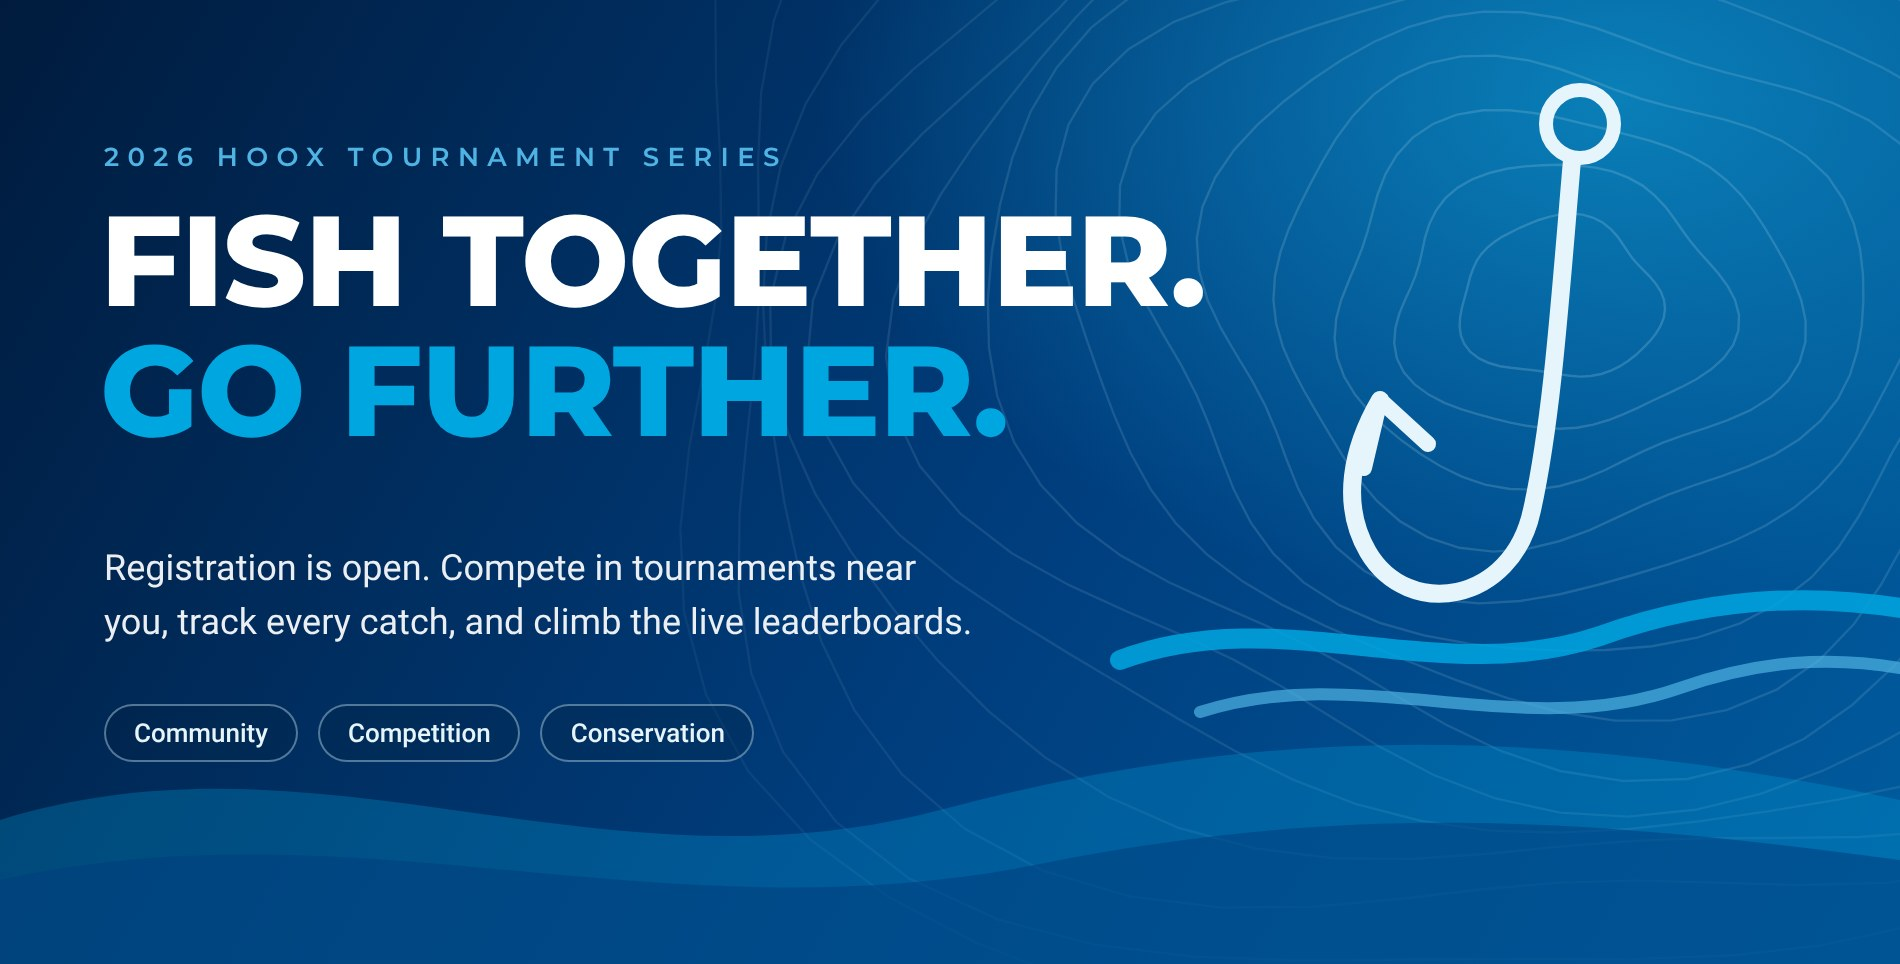
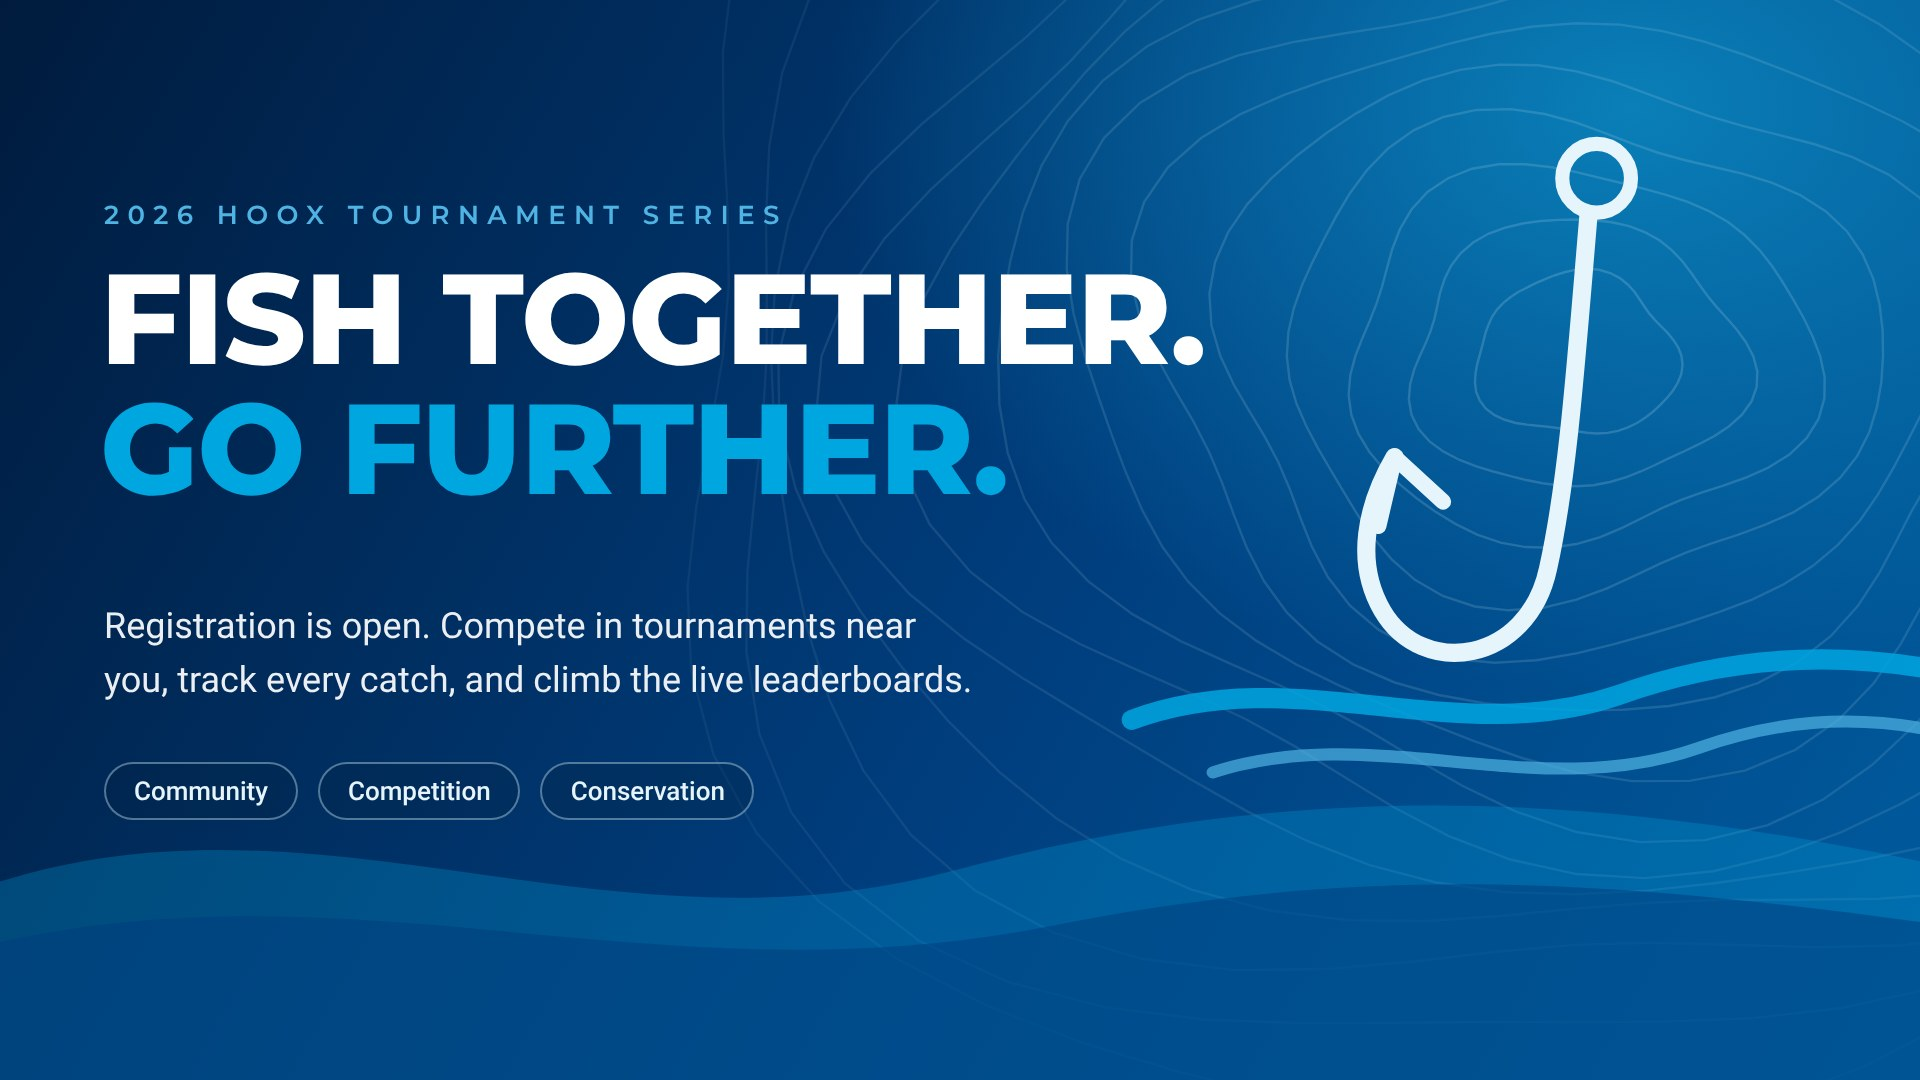
Restore Live Now / home changes lost in 7fbec34; re-apply 16:9 hero
Commit 7fbec34 accidentally committed stale copies of HomePage.tsx and
HeroCarousel.tsx, rolling back the Live Now card edits, the Leaderboards
section order, "View all tournaments", the Register buttons and the
Google map. This restores HomePage/HeroCarousel from 761dad6 and
re-applies the responsive 16:9 hero work on top:

- Hero always 16:9, image object-cover centred, no blurred bands
- >= 1280px: hero + Live Now side by side, map flexes so heights match
- 768-1279px: Live Now below the hero, details left / map right
- < 768px: stacked
- HOOX Series example slide re-exported at 1920x1080
- Admin hero editor recommends 1920x1080 (16:9)

Claude-Session: https://claude.ai/code/session_01TeZCeep714KrQBXP31fbxB

diff --git a/src/components/pages/HomePage.tsx b/src/components/pages/HomePage.tsx
@@ -1,7 +1,7 @@
 'use client';
 
 import {
-  Trophy, MapPin, CalendarDays, Users, ChevronRight, ArrowRight, ShieldCheck, Mountain, Waves,
+  Trophy, MapPin, Users, ChevronRight, ArrowRight, ShieldCheck, Mountain, Waves, Navigation,
 } from 'lucide-react';
 import { useEffect, useState } from 'react';
 import { Tournament, Submission, User, SearchParams, HeroSlide, HomeBanner } from '@/types';
@@ -9,6 +9,7 @@ import { getActiveHeroSlides, dbHeroSlideToApp, getActiveHomeBanners, dbHomeBann
 import RecommendedSection from '@/components/home/RecommendedSection';
 import HeroCarousel from '@/components/home/HeroCarousel';
 import LeaderboardSection from '@/components/home/LeaderboardSection';
+import { mapsSearchUrl, mapsDirectionsUrl, mapsEmbedUrl } from '@/lib/eventDetail';
 
 interface HomePageProps {
   tournaments: Tournament[];
@@ -46,7 +47,9 @@ interface LiveTournament {
   day: string;
   elapsed: string;
   lastUpdate: string;
-  map: string;
+  /** Google Maps query (same map/links as the event page's Event Location card) */
+  mapQuery: string;
+  address?: string;
 }
 
 const DEMO_LIVE: LiveTournament = {
@@ -57,7 +60,8 @@ const DEMO_LIVE: LiveTournament = {
   day: 'Day 1 of 3',
   elapsed: '5h 42m',
   lastUpdate: '10:42 AM',
-  map: '/home/live-map.jpg',
+  mapQuery: 'Lake Hartwell, Hartwell, GA 30643',
+  address: 'Hartwell, GA 30643',
 };
 
 interface UpcomingCard {
@@ -68,6 +72,8 @@ interface UpcomingCard {
   anglers?: number | string;
   prizePool?: string;
   image: string;
+  /** Show the Register button only while registration is open */
+  registrationOpen: boolean;
 }
 
 const CARD_IMAGES = [
@@ -80,12 +86,12 @@ const CARD_IMAGES = [
 ];
 
 const DEMO_UPCOMING: UpcomingCard[] = [
-  { id: 'd1', name: 'Coastal Open', dates: 'JUN 7 – 8, 2025', location: 'Charleston, SC', anglers: 200, prizePool: '$100,000', image: CARD_IMAGES[0] },
-  { id: 'd2', name: 'Pine Creek Challenge', dates: 'JUN 21 – 22, 2025', location: 'Toledo Bend, TX', anglers: 180, prizePool: '$75,000', image: CARD_IMAGES[1] },
-  { id: 'd3', name: 'Summer Slam', dates: 'JUL 12 – 13, 2025', location: 'Lake Okeechobee, FL', anglers: 220, prizePool: '$125,000', image: CARD_IMAGES[2] },
-  { id: 'd4', name: 'Mountain Lake Invitational', dates: 'AUG 9 – 10, 2025', location: 'Lake Guntersville, AL', anglers: 160, prizePool: '$80,000', image: CARD_IMAGES[3] },
-  { id: 'd5', name: 'Bayou Bash', dates: 'SEP 6 – 7, 2025', location: 'Toledo Bend, LA', anglers: 175, prizePool: '$70,000', image: CARD_IMAGES[4] },
-  { id: 'd6', name: 'Fall Classic', dates: 'OCT 18 – 19, 2025', location: 'Lake Murray, SC', anglers: 190, prizePool: '$90,000', image: CARD_IMAGES[5] },
+  { id: 'd1', name: 'Coastal Open', dates: 'JUN 7 – 8, 2025', location: 'Charleston, SC', anglers: 200, prizePool: '$100,000', image: CARD_IMAGES[0], registrationOpen: true },
+  { id: 'd2', name: 'Pine Creek Challenge', dates: 'JUN 21 – 22, 2025', location: 'Toledo Bend, TX', anglers: 180, prizePool: '$75,000', image: CARD_IMAGES[1], registrationOpen: false },
+  { id: 'd3', name: 'Summer Slam', dates: 'JUL 12 – 13, 2025', location: 'Lake Okeechobee, FL', anglers: 220, prizePool: '$125,000', image: CARD_IMAGES[2], registrationOpen: true },
+  { id: 'd4', name: 'Mountain Lake Invitational', dates: 'AUG 9 – 10, 2025', location: 'Lake Guntersville, AL', anglers: 160, prizePool: '$80,000', image: CARD_IMAGES[3], registrationOpen: true },
+  { id: 'd5', name: 'Bayou Bash', dates: 'SEP 6 – 7, 2025', location: 'Toledo Bend, LA', anglers: 175, prizePool: '$70,000', image: CARD_IMAGES[4], registrationOpen: true },
+  { id: 'd6', name: 'Fall Classic', dates: 'OCT 18 – 19, 2025', location: 'Lake Murray, SC', anglers: 190, prizePool: '$90,000', image: CARD_IMAGES[5], registrationOpen: true },
 ];
 
 /* ------------------------------ helpers ------------------------------ */
@@ -131,6 +137,9 @@ function toUpcomingCards(tournaments: Tournament[]): UpcomingCard[] {
     location: place(t),
     anglers: t.maxParticipants || undefined,
     image: t.image || CARD_IMAGES[i % CARD_IMAGES.length],
+    // Same rule as the event page: open until the event ends, unless marked completed.
+    // (Upcoming cards only list events that haven't started yet.)
+    registrationOpen: t.status !== 'completed',
   }));
 }
 
@@ -158,7 +167,8 @@ function toLive(tournaments: Tournament[]): LiveTournament | null {
     day: `Day ${dayNum} of ${totalDays}`,
     elapsed: `${Math.floor(mins / 60)}h ${mins % 60}m`,
     lastUpdate: now.toLocaleTimeString([], { hour: 'numeric', minute: '2-digit' }),
-    map: DEMO_LIVE.map,
+    mapQuery: [t.location, t.city, t.state].filter(Boolean).join(', '),
+    address: [t.city, t.state].filter(Boolean).join(', ') || undefined,
   };
 }
 
@@ -220,9 +230,12 @@ function SponsorHero({ onVisit }: { onVisit: () => void }) {
 
 function LiveNow({ live, onLeaderboard }: { live: LiveTournament; onLeaderboard: () => void }) {
   return (
-    <section aria-label="Live tournament" className="flex flex-col rounded-lg border border-hoox-line bg-white p-[14px] pt-[16px] shadow-[0_2px_10px_rgba(10,30,60,0.06)]">
+    // Phones: one column. 768–1279px (card is full width under the hero): details left, map right.
+    // >= 1280px: one column beside the hero; the map grows to match the hero's height.
+    <section aria-label="Live tournament" className="flex flex-col rounded-lg border border-hoox-line bg-white p-[14px] pt-[16px] shadow-[0_2px_10px_rgba(10,30,60,0.06)] md:grid md:grid-cols-2 md:gap-x-6 xl:flex xl:flex-col">
+      <div className="min-w-0">
       <div className="flex items-start justify-between px-[2px]">
-        <h2 className="flex items-center gap-2.5 text-[24px] font-bold leading-none text-hoox-ink">
+        <h2 className="flex items-center gap-2.5 text-[20px] font-bold leading-none text-hoox-ink">
           <span className="relative flex h-[11px] w-[11px]">
             <span className="absolute inline-flex h-full w-full animate-ping rounded-full bg-hoox-teal opacity-60" />
             <span className="relative inline-flex h-[11px] w-[11px] rounded-full bg-hoox-teal" />
@@ -232,20 +245,24 @@ function LiveNow({ live, onLeaderboard }: { live: LiveTournament; onLeaderboard:
         <span className="pt-1 text-[13px] text-hoox-muted">Last update: {live.lastUpdate}</span>
       </div>
 
-      <span className="mt-[13px] inline-flex w-fit items-center gap-2 rounded-md bg-[#F7A924] px-3.5 py-[6px] text-[12px] font-semibold uppercase text-[#161C36]">
-        <Trophy className="h-4 w-4" fill="currentColor" strokeWidth={1.5} /> Featured Tournament
-      </span>
+      {/* Featured badge + View leaderboard: same height, padding and type size */}
+      <div className="mt-[13px] flex flex-wrap items-center gap-2">
+        <span className="inline-flex w-fit items-center gap-2 rounded-md bg-[#F7A924] px-3.5 py-[6px] text-[12px] font-semibold uppercase text-[#161C36]">
+          <Trophy className="h-4 w-4" fill="currentColor" strokeWidth={1.5} /> Featured Tournament
+        </span>
+        <button
+          onClick={onLeaderboard}
+          className="inline-flex w-fit items-center gap-2 rounded-md bg-gradient-to-r from-[#00253F] via-[#03304F] to-[#00253F] px-3.5 py-[6px] text-[12px] font-semibold uppercase text-white transition hover:brightness-125"
+        >
+          View leaderboard <ArrowRight className="h-4 w-4" strokeWidth={2} />
+        </button>
+      </div>
 
       <div className="mt-2.5 flex items-start gap-4 pl-[2px]">
         <img src="/home/live-fish.png" alt="" className="mt-1 h-[58px] w-[74px] flex-shrink-0 object-contain" />
         <div className="min-w-0">
           <h3 className="text-[23px] font-bold leading-tight text-hoox-ink">{live.name}</h3>
-          <p className="mt-1.5 flex items-center gap-3 text-[16px] text-[#5884E1]">
-            <MapPin className="h-5 w-5 text-hoox-ink" strokeWidth={1.75} /> {live.location}
-          </p>
-          <p className="mt-1.5 flex items-center gap-3 text-[16px] text-[#5884E1]">
-            <CalendarDays className="h-5 w-5 text-hoox-ink" strokeWidth={1.75} /> {live.dates}
-          </p>
+          <p className="mt-0 text-[16px] font-semibold text-[#5884E1]">{live.dates}</p>
         </div>
       </div>
 
@@ -256,37 +273,85 @@ function LiveNow({ live, onLeaderboard }: { live: LiveTournament; onLeaderboard:
           { v: live.elapsed, l: 'Elapsed', c: 'text-[#477CD3]' },
         ].map((s, i) => (
           <div key={s.l} className={i > 0 ? 'border-l border-[#B9D4E6]' : ''}>
-            <dd className="text-[21px] font-bold leading-tight text-hoox-ink">{s.v}</dd>
-            <dt className={`mt-0.5 text-[14px] ${s.c}`}>{s.l}</dt>
+            <dd className="text-[18px] font-bold leading-tight text-hoox-ink">{s.v}</dd>
+            <dt className={`mt-0.5 text-[14px] font-semibold ${s.c}`}>{s.l}</dt>
           </div>
         ))}
       </dl>
+      </div>
 
-      <img src={live.map} alt={`Map of ${live.location}`} className="mt-[9px] h-[145px] w-full rounded-md object-cover" />
+      {/* Event location — same Google Maps embed, View Larger Map and Get Directions as the event page */}
+      {live.mapQuery && (
+        <div className="mt-[10px] flex min-w-0 flex-col md:mt-0 xl:mt-[10px] xl:flex-1 xl:basis-0">
+          <div className="flex items-center justify-between px-[2px]">
+            <h4 className="text-[15px] font-bold text-hoox-ink">Event Location</h4>
+            <a
+              href={mapsSearchUrl(live.mapQuery)}
+              target="_blank"
+              rel="noopener noreferrer"
+              className="flex items-center gap-1.5 text-[12.5px] font-semibold text-[#0B6068] hover:text-hoox-brand"
+            >
+              View Larger Map <ArrowRight className="h-4 w-4" strokeWidth={2} />
+            </a>
+          </div>
+          <iframe
+            title={`Map of ${live.location}`}
+            src={mapsEmbedUrl(live.mapQuery)}
+            loading="lazy"
+            referrerPolicy="no-referrer-when-downgrade"
+            className="mt-2 h-[145px] w-full flex-1 rounded-md border-0 bg-hoox-chip md:h-auto md:min-h-[150px] xl:h-0 xl:min-h-[110px] xl:basis-0"
+          />
+          <div className="mt-2 flex items-center justify-between gap-3">
+            <div className="flex min-w-0 items-start gap-2.5">
+              <MapPin className="mt-[2px] h-[20px] w-[20px] flex-shrink-0 text-hoox-ink" strokeWidth={2} />
+              <div className="min-w-0">
+                <div className="truncate text-[14px] font-semibold text-hoox-ink">{live.location}</div>
+                {live.address && <div className="truncate text-[12.5px] text-[#6586A8]">{live.address}</div>}
+              </div>
+            </div>
+            <a
+              href={mapsDirectionsUrl(live.mapQuery)}
+              target="_blank"
+              rel="noopener noreferrer"
+              className="flex h-[36px] flex-shrink-0 items-center gap-2.5 rounded-md border border-[#177E84] px-4 text-[13px] font-medium text-[#076869] transition hover:bg-[#EEF9F8]"
+            >
+              <Navigation className="h-[16px] w-[16px]" strokeWidth={2} /> Get Directions
+            </a>
+          </div>
+        </div>
+      )}
 
-      <button
-        onClick={onLeaderboard}
-        className="mt-3 flex h-[46px] w-full items-center justify-center gap-4 rounded-md bg-gradient-to-r from-[#00253F] via-[#03304F] to-[#00253F] text-[18px] font-medium text-white hover:brightness-125 transition"
-      >
-        View leaderboard <ArrowRight className="h-5 w-5" strokeWidth={2} />
-      </button>
     </section>
   );
 }
 
-function TournamentCard({ t, onOpen }: { t: UpcomingCard; onOpen: () => void }) {
+function TournamentCard({ t, onOpen, onRegister }: { t: UpcomingCard; onOpen: () => void; onRegister: () => void }) {
   return (
-    <button
-      onClick={onOpen}
-      className="group flex w-full flex-col sm:flex-row gap-4 rounded-md border border-hoox-line bg-white p-[13px] text-left transition hover:border-hoox-ui hover:shadow-md"
-    >
+    <div className="group relative flex w-full flex-col sm:flex-row gap-4 rounded-md border border-hoox-line bg-white p-[13px] text-left transition hover:border-hoox-ui hover:shadow-md focus-within:border-hoox-ui">
       <img src={t.image} alt="" className="h-[180px] w-full sm:h-[134px] sm:w-[40%] sm:max-w-[166px] flex-shrink-0 rounded-md object-cover" />
       <div className="flex min-w-0 flex-1 flex-col pt-[4px]">
-        <div className="flex items-start justify-between gap-2">
-          <span className="whitespace-nowrap rounded bg-hoox-chip px-[11px] py-[4px] text-[14px] font-medium text-[#1A2C9F]">{t.dates}</span>
-          <ChevronRight className="mt-6 h-6 w-6 flex-shrink-0 text-hoox-ink transition group-hover:translate-x-0.5" strokeWidth={2} />
+        <div className="flex items-start justify-between gap-2 pr-6">
+          <div className="flex flex-nowrap items-center gap-2">
+            <span className="inline-flex h-[27px] items-center whitespace-nowrap rounded bg-hoox-chip px-[10px] text-[13px] font-medium text-[#1A2C9F]">{t.dates}</span>
+            {t.registrationOpen && (
+              <button
+                type="button"
+                onClick={onRegister}
+                aria-label={`Register for ${t.name}`}
+                className="relative z-10 inline-flex h-[27px] flex-shrink-0 items-center rounded bg-gradient-to-b from-[#F7C23C] to-[#F2AE24] px-3 text-[13px] font-semibold text-[#0B1636] shadow-sm transition hover:brightness-105 focus:outline-none focus-visible:ring-2 focus-visible:ring-hoox-ui"
+              >
+                Register
+              </button>
+            )}
+          </div>
+          <ChevronRight className="absolute bottom-4 right-3 h-6 w-6 text-hoox-ink transition group-hover:translate-x-0.5 sm:bottom-auto sm:top-[62px]" strokeWidth={2} aria-hidden />
         </div>
-        <h3 className="-mt-1 pr-1 text-[20px] font-bold leading-[1.15] tracking-[-0.01em] text-hoox-ink line-clamp-2">{t.name}</h3>
+        <h3 className="mt-2 pr-7 text-[20px] font-bold leading-[1.15] tracking-[-0.01em] text-hoox-ink line-clamp-2">
+          {/* Stretched link: the whole card opens the event page */}
+          <button type="button" onClick={onOpen} className="text-left after:absolute after:inset-0 after:content-[''] focus:outline-none">
+            {t.name}
+          </button>
+        </h3>
         {t.location && (
           <p className="mt-2 flex items-center gap-2.5 text-[15px] text-[#5884E1]">
             <MapPin className="h-[17px] w-[17px] flex-shrink-0 text-hoox-ink" strokeWidth={1.75} />
@@ -307,7 +372,7 @@ function TournamentCard({ t, onOpen }: { t: UpcomingCard; onOpen: () => void }) 
           )}
         </div>
       </div>
-    </button>
+    </div>
   );
 }
 
@@ -356,7 +421,10 @@ export default function HomePage({ tournaments, onNavigate }: HomePageProps) {
     <div className="font-roboto bg-hoox-mist">
       <div className="mx-auto max-w-[1440px] px-4 md:px-[23px] pt-[18px] pb-6 space-y-[14px]">
         {/* Sponsor hero + Live now */}
-        <div className="grid grid-cols-1 lg:grid-cols-[minmax(0,1fr)_380px] xl:grid-cols-[minmax(0,1fr)_428px] gap-4">
+        {/* < 1280px: hero full width (16:9) with Live Now below.
+            >= 1280px: side by side; the 16:9 hero sets the row height and the
+            Live Now card stretches to match (its map absorbs the extra space). */}
+        <div className="grid grid-cols-1 gap-4 xl:grid-cols-[minmax(0,1fr)_400px] min-[1440px]:grid-cols-[minmax(0,1fr)_428px]">
           <HeroCarousel
             slides={heroSlides}
             fallback={<SponsorHero onVisit={() => onNavigate('sponsors')} />}
@@ -367,6 +435,9 @@ export default function HomePage({ tournaments, onNavigate }: HomePageProps) {
         {/* We recommend (sponsor banners) */}
         <RecommendedSection banners={banners} onNavigate={onNavigate} />
 
+        {/* Leaderboards */}
+        <LeaderboardSection onNavigate={onNavigate} />
+
         {/* Upcoming tournaments */}
         <section aria-labelledby="upcoming-heading" className="rounded-lg bg-white px-3 sm:px-[12px] pt-[12px] pb-[12px] shadow-[0_2px_10px_rgba(10,30,60,0.05)]">
           <div className="flex flex-wrap items-end justify-between gap-2 px-2 pb-[13px]">
@@ -375,21 +446,23 @@ export default function HomePage({ tournaments, onNavigate }: HomePageProps) {
               <p className="text-[16px] font-light text-[#869FE6]">Discover upcoming events and get ready to compete.</p>
             </div>
             <button
-              onClick={() => onNavigate('events')}
+              onClick={() => onNavigate('tournaments')}
               className="mb-4 flex items-center gap-2 text-[17px] font-medium text-[#016F8C] hover:text-hoox-brand transition"
             >
-              View all events <ArrowRight className="h-5 w-5" strokeWidth={2} />
+              View all tournaments <ArrowRight className="h-5 w-5" strokeWidth={2} />
             </button>
           </div>
           <div className="grid grid-cols-1 md:grid-cols-2 xl:grid-cols-3 gap-[13px]">
             {upcoming.map((t) => (
-              <TournamentCard key={t.id} t={t} onOpen={() => onNavigate(`tournaments/${/^d\d+$/.test(t.id) ? 'lakefront-classic' /* demo cards open the demo event */ : t.id}`)} />
+              <TournamentCard
+                key={t.id}
+                t={t}
+                onOpen={() => onNavigate(`tournaments/${/^d\d+$/.test(t.id) ? 'lakefront-classic' /* demo cards open the demo event */ : t.id}`)}
+                onRegister={() => onNavigate('register-angler')}
+              />
             ))}
           </div>
         </section>
-
-        {/* Leaderboard */}
-        <LeaderboardSection onNavigate={onNavigate} />
       </div>
     </div>
   );

diff --git a/src/components/home/HeroCarousel.tsx b/src/components/home/HeroCarousel.tsx
@@ -67,7 +67,7 @@ export default function HeroCarousel({ slides, fallback }: HeroCarouselProps) {
     return (
       <div
         aria-hidden
-        className="relative overflow-hidden rounded-lg bg-hoox-deep aspect-[1900/964] lg:aspect-auto lg:min-h-[482px] shadow-[0_2px_10px_rgba(10,30,60,0.12)] animate-pulse"
+        className="relative aspect-video w-full self-start overflow-hidden rounded-lg bg-hoox-deep shadow-[0_2px_10px_rgba(10,30,60,0.12)] animate-pulse"
       />
     );
   }
@@ -78,7 +78,7 @@ export default function HeroCarousel({ slides, fallback }: HeroCarouselProps) {
     <section
       aria-roledescription="carousel"
       aria-label="Featured sponsors"
-      className="group/hero relative overflow-hidden rounded-lg bg-hoox-deep aspect-[1900/964] lg:aspect-auto lg:h-full lg:min-h-[482px] shadow-[0_2px_10px_rgba(10,30,60,0.12)] focus:outline-none"
+      className="group/hero relative aspect-video w-full self-start overflow-hidden rounded-lg bg-hoox-deep shadow-[0_2px_10px_rgba(10,30,60,0.12)] focus:outline-none"
       tabIndex={0}
       onMouseEnter={() => setPaused(true)}
       onMouseLeave={() => setPaused(false)}
@@ -114,11 +114,13 @@ export default function HeroCarousel({ slides, fallback }: HeroCarouselProps) {
               active ? 'opacity-100 z-[1]' : 'opacity-0 z-0 pointer-events-none'
             }`}
           >
+            {/* The hero is always 16:9 (matching the recommended 1920×1080 artwork),
+                so the image scales to fill it exactly, centred, at every breakpoint. */}
             <img
               src={s.imageUrl}
               alt={s.title}
               loading={i === 0 ? 'eager' : 'lazy'}
-              className="absolute inset-0 h-full w-full object-cover"
+              className="absolute inset-0 h-full w-full object-cover object-center"
             />
             {s.buttonLabel && s.buttonUrl && (
               <div className={`absolute bottom-7 sm:bottom-11 flex flex-col ${BUTTON_POSITION[s.buttonPosition]}`}>

diff --git a/src/components/admin/HeroSlidesManager.tsx b/src/components/admin/HeroSlidesManager.tsx
@@ -14,7 +14,7 @@ import { Toast, useToast } from '@/components/ui/Toast';
 /* go to /api/admin/hero-slides/** which re-check the admin session.   */
 /* ------------------------------------------------------------------ */
 
-const RECOMMENDED = '1900 × 964 px (about 2:1)';
+const RECOMMENDED = '1920 × 1080 px (16:9)';
 
 interface FormState {
   title: string;
@@ -64,7 +64,7 @@ function SlidePreview({ form }: { form: FormState }) {
     form.buttonPosition === 'bottom-center' ? 'left-1/2 -translate-x-1/2' :
     form.buttonPosition === 'bottom-right' ? 'right-4' : 'left-4';
   return (
-    <div className="relative aspect-[1900/964] w-full overflow-hidden rounded-lg bg-[#00263B]">
+    <div className="relative aspect-video w-full overflow-hidden rounded-lg bg-[#00263B]">
       {form.imageUrl ? (
         // eslint-disable-next-line @next/next/no-img-element
         <img src={form.imageUrl} alt="" className="absolute inset-0 h-full w-full object-cover" />
